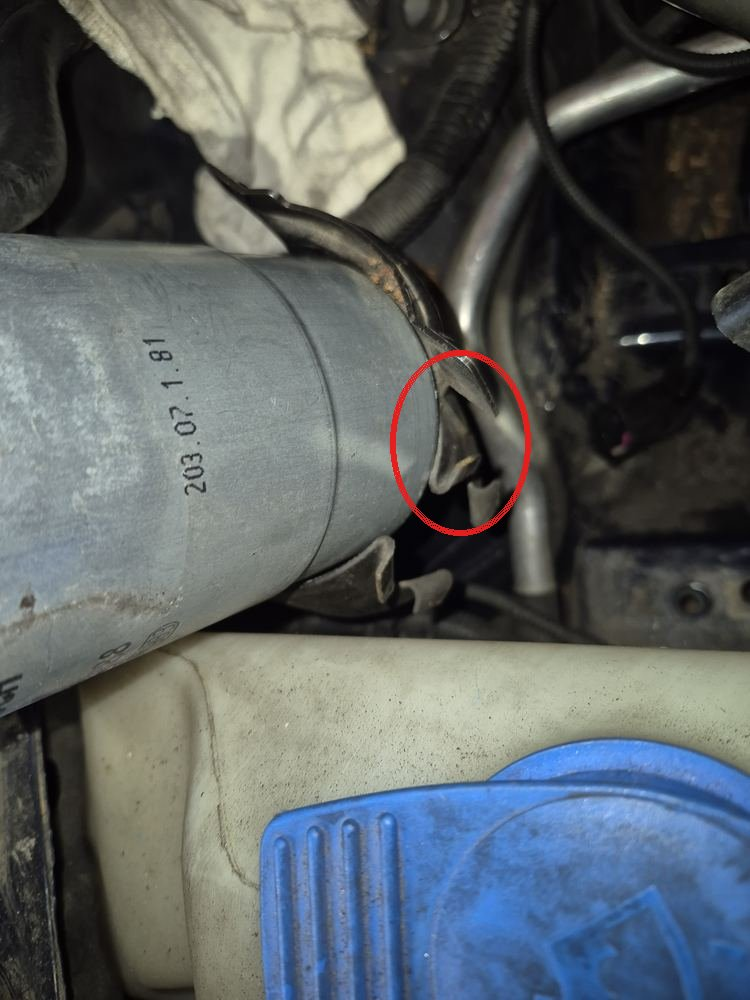
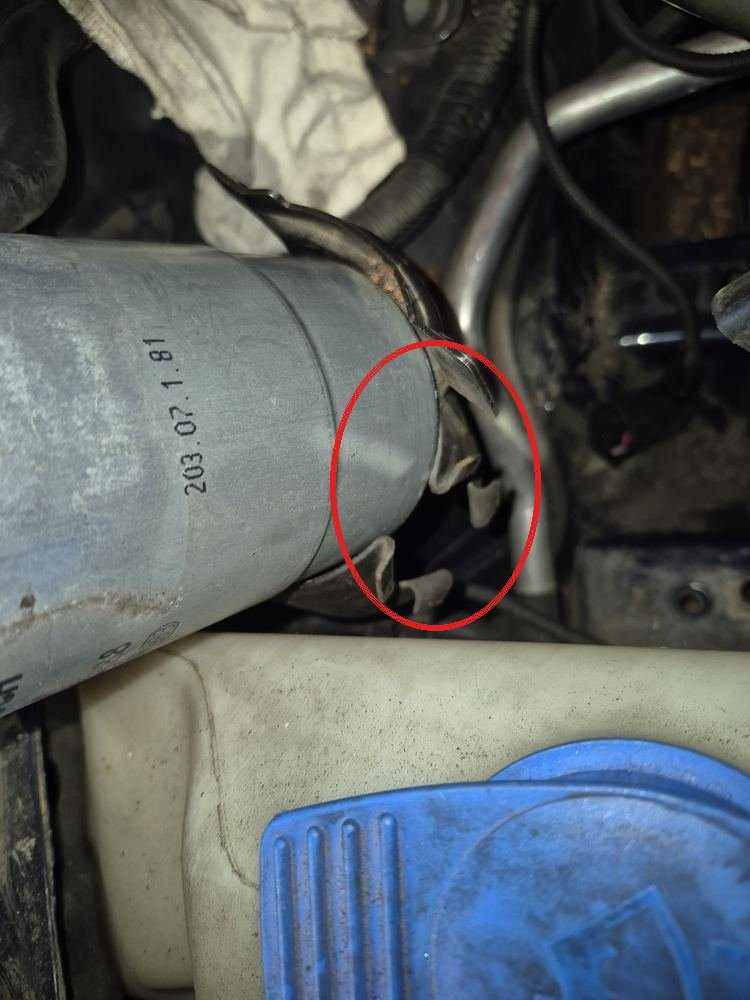
V47: Foto Filterschelle, Kreis um beide Hakenpaare

diff --git a/index.html b/index.html
@@ -1580,7 +1580,7 @@ td.val{font-family:var(--font-mono);font-weight:600;white-space:nowrap;font-vari
       <div class="ov" data-sym="top" data-on="tank,servo,filter,fuel,pipe" data-seq="tank,servo,filter,fuel,pipe" data-seqnote="Grüne Kästchen: Reihenfolge beim Einbau" data-cap="&lt;b&gt;Bild 26a.&lt;/b&gt; Motorraum von oben. Blau: was von oben wieder an seinen Platz kommt."></div>
       <div class="txt">
         <h4>26.1 Behälter, Leitungen und Ladeluftrohr</h4>
-        <ol class="sub"><li><label class="sb"><input type="checkbox" id="u26-1a"><b>26.1a</b></label><div class="sc">Den Kühlmittel-Ausgleichsbehälter an seinen Platz setzen und anschrauben.<div class="chips"><button type="button" class="chip pic" data-bild="26a">Bild 26a</button><span class="chip bag out">aus Beutel 4</span></div><div class="phs"><figure class="photo"><img src="foto-vorher-behaelter.jpg" alt="Dein Foto vom 13.11. So saßen Ausgleichsbehälter, Kraftstofffilter und Servoöl-Behälter vorher." loading="lazy"><figcaption><b>Dein Foto vom 13.11.</b> So saßen Ausgleichsbehälter, Kraftstofffilter und Servoöl-Behälter vorher.</figcaption></figure></div></div></li><li><label class="sb"><input type="checkbox" id="u26-1b"><b>26.1b</b></label><div class="sc">Den Stecker an der Unterseite des Ausgleichsbehälters aufstecken, bis er einrastet.<div class="chips"><button type="button" class="chip pic" data-bild="26a">Bild 26a</button></div><div class="phs"><figure class="photo"><img src="foto-stecker-ausgleichsbehaelter.jpg" alt="Dein Foto vom 15.11. Der Stecker an der Unterseite des Ausgleichsbehälters." loading="lazy"><figcaption><b>Dein Foto vom 15.11.</b> Der Stecker an der Unterseite des Ausgleichsbehälters.</figcaption></figure></div></div></li><li><label class="sb"><input type="checkbox" id="u26-1c"><b>26.1c</b></label><div class="sc">Den Servoöl-Behälter anschrauben.<div class="chips"><button type="button" class="chip pic" data-bild="26a">Bild 26a</button><span class="chip bag out">aus Beutel 4</span></div></div></li><li><label class="sb"><input type="checkbox" id="u26-1d"><b>26.1d</b></label><div class="sc">Den Kraftstofffilter anschrauben.<div class="chips"><button type="button" class="chip pic" data-bild="26a">Bild 26a</button><span class="chip bag out">aus Beutel 4</span></div></div></li><li><label class="sb"><input type="checkbox" id="u26-1da"><b>26.1da</b></label><div class="sc"><b>Spannschraube der Filterschelle einsetzen.</b> Am 22.11. ist die Spannschraube aus der Blechschelle des Kraftstofffilters herausgefallen. Sie hat zwei schwarze Querstücke. Häng das Querstück am Schraubenkopf in das eine aufgebogene Ende der Schelle und das Querstück mit dem Gewinde in das andere. Dann die Schraube anziehen, bis der Filter fest sitzt und sich von Hand nicht mehr drehen lässt. Nur handfest, die Schelle ist dünnes Blech.<div class="chips"><span class="chip bag out">aus Beutel 4</span></div><div class="phs"><figure class="photo"><img src="foto-filterschelle-schraube.jpg" alt="Dein Foto vom 22.11. Die Spannschraube der Filterschelle mit ihren zwei Querstücken." loading="lazy"><figcaption><b>Dein Foto vom 22.11.</b> Die Spannschraube der Filterschelle mit ihren zwei Querstücken.</figcaption></figure><figure class="photo"><img src="foto-filterschelle-offen.jpg" alt="Dein Foto vom 22.11. Hier gehört sie hin: in die zwei offenen Enden der Schelle am Kraftstofffilter (roter Kreis)." loading="lazy"><figcaption><b>Dein Foto vom 22.11.</b> Hier gehört sie hin: in die zwei offenen Enden der Schelle am Kraftstofffilter (roter Kreis).</figcaption></figure></div></div></li><li><label class="sb"><input type="checkbox" id="u26-1e"><b>26.1e</b></label><div class="sc">Die Kraftstoffleitung wieder in ihre Halterung am Zylinderkopfdeckel legen.<div class="chips"><button type="button" class="chip pic" data-bild="26a">Bild 26a</button></div></div></li><li><label class="sb"><input type="checkbox" id="u26-1f"><b>26.1f</b></label><div class="sc">Die Lappen aus den Stutzen des Ladeluftrohrs nehmen.<div class="chips"><button type="button" class="chip pic" data-bild="6">Bild 6</button></div></div></li><li><label class="sb"><input type="checkbox" id="u26-1g"><b>26.1g</b></label><div class="sc"><b>Ladeluftrohr oben</b> aufstecken. Die blauen Striche auf Schlauch und Rohr wieder aufeinander ausrichten. Hörbar einrasten lassen oder die Schelle festziehen.<div class="chips"><button type="button" class="chip pic" data-bild="6">Bild 6</button><span class="chip bag out">aus Beutel 6</span></div><div class="phs"><figure class="photo"><img src="foto-ladeluft-oben.jpg" alt="Dein Foto vom 13.11. Das obere Ende mit den blauen Strichen." loading="lazy"><figcaption><b>Dein Foto vom 13.11.</b> Das obere Ende mit den blauen Strichen.</figcaption></figure><figure class="photo"><img src="foto-ladeluft-oben-offen.jpg" alt="Dein Foto vom 13.11. Der obere Anschluss, abgezogen." loading="lazy"><figcaption><b>Dein Foto vom 13.11.</b> Der obere Anschluss, abgezogen.</figcaption></figure></div></div></li><li><label class="sb"><input type="checkbox" id="u26-1h"><b>26.1h</b></label><div class="sc"><b>Ladeluftrohr unten</b> aufstecken. Hörbar einrasten lassen oder die Schelle festziehen.<div class="chips"><button type="button" class="chip pic" data-bild="6">Bild 6</button><span class="chip bag out">aus Beutel 6</span></div><div class="phs"><figure class="photo"><img src="foto-ladeluft-unten.jpg" alt="Dein Foto vom 15.11. Das untere Ende, von unten gesehen." loading="lazy"><figcaption><b>Dein Foto vom 15.11.</b> Das untere Ende, von unten gesehen.</figcaption></figure><figure class="photo"><img src="foto-ladeluft-unten-2.jpg" alt="Dein Foto vom 15.11. Das untere Ende von der Seite." loading="lazy"><figcaption><b>Dein Foto vom 15.11.</b> Das untere Ende von der Seite.</figcaption></figure></div></div></li><li><label class="sb"><input type="checkbox" id="u26-1i"><b>26.1i</b></label><div class="sc">Zug-Probe: An beiden Enden kräftig ziehen. Nichts darf abgehen.</div></li></ol>
+        <ol class="sub"><li><label class="sb"><input type="checkbox" id="u26-1a"><b>26.1a</b></label><div class="sc">Den Kühlmittel-Ausgleichsbehälter an seinen Platz setzen und anschrauben.<div class="chips"><button type="button" class="chip pic" data-bild="26a">Bild 26a</button><span class="chip bag out">aus Beutel 4</span></div><div class="phs"><figure class="photo"><img src="foto-vorher-behaelter.jpg" alt="Dein Foto vom 13.11. So saßen Ausgleichsbehälter, Kraftstofffilter und Servoöl-Behälter vorher." loading="lazy"><figcaption><b>Dein Foto vom 13.11.</b> So saßen Ausgleichsbehälter, Kraftstofffilter und Servoöl-Behälter vorher.</figcaption></figure></div></div></li><li><label class="sb"><input type="checkbox" id="u26-1b"><b>26.1b</b></label><div class="sc">Den Stecker an der Unterseite des Ausgleichsbehälters aufstecken, bis er einrastet.<div class="chips"><button type="button" class="chip pic" data-bild="26a">Bild 26a</button></div><div class="phs"><figure class="photo"><img src="foto-stecker-ausgleichsbehaelter.jpg" alt="Dein Foto vom 15.11. Der Stecker an der Unterseite des Ausgleichsbehälters." loading="lazy"><figcaption><b>Dein Foto vom 15.11.</b> Der Stecker an der Unterseite des Ausgleichsbehälters.</figcaption></figure></div></div></li><li><label class="sb"><input type="checkbox" id="u26-1c"><b>26.1c</b></label><div class="sc">Den Servoöl-Behälter anschrauben.<div class="chips"><button type="button" class="chip pic" data-bild="26a">Bild 26a</button><span class="chip bag out">aus Beutel 4</span></div></div></li><li><label class="sb"><input type="checkbox" id="u26-1d"><b>26.1d</b></label><div class="sc">Den Kraftstofffilter anschrauben.<div class="chips"><button type="button" class="chip pic" data-bild="26a">Bild 26a</button><span class="chip bag out">aus Beutel 4</span></div></div></li><li><label class="sb"><input type="checkbox" id="u26-1da"><b>26.1da</b></label><div class="sc"><b>Spannschraube der Filterschelle einsetzen.</b> Am 22.11. ist die Spannschraube aus der Blechschelle des Kraftstofffilters herausgefallen. Sie hat zwei schwarze Querstücke. Die Schelle hat zwei Enden mit je zwei Haken. Häng das Querstück am Schraubenkopf in das eine Hakenpaar und das Querstück mit dem Gewinde in das andere. Dann die Schraube anziehen, bis der Filter fest sitzt und sich von Hand nicht mehr drehen lässt. Nur handfest, die Schelle ist dünnes Blech.<div class="chips"><span class="chip bag out">aus Beutel 4</span></div><div class="phs"><figure class="photo"><img src="foto-filterschelle-schraube.jpg" alt="Dein Foto vom 22.11. Die Spannschraube der Filterschelle mit ihren zwei Querstücken." loading="lazy"><figcaption><b>Dein Foto vom 22.11.</b> Die Spannschraube der Filterschelle mit ihren zwei Querstücken.</figcaption></figure><figure class="photo"><img src="foto-filterschelle-offen.jpg" alt="Dein Foto vom 22.11. Hier gehört sie hin: zwischen die zwei Hakenpaare an den Enden der Schelle (roter Kreis)." loading="lazy"><figcaption><b>Dein Foto vom 22.11.</b> Hier gehört sie hin: zwischen die zwei Hakenpaare an den Enden der Schelle (roter Kreis).</figcaption></figure></div></div></li><li><label class="sb"><input type="checkbox" id="u26-1e"><b>26.1e</b></label><div class="sc">Die Kraftstoffleitung wieder in ihre Halterung am Zylinderkopfdeckel legen.<div class="chips"><button type="button" class="chip pic" data-bild="26a">Bild 26a</button></div></div></li><li><label class="sb"><input type="checkbox" id="u26-1f"><b>26.1f</b></label><div class="sc">Die Lappen aus den Stutzen des Ladeluftrohrs nehmen.<div class="chips"><button type="button" class="chip pic" data-bild="6">Bild 6</button></div></div></li><li><label class="sb"><input type="checkbox" id="u26-1g"><b>26.1g</b></label><div class="sc"><b>Ladeluftrohr oben</b> aufstecken. Die blauen Striche auf Schlauch und Rohr wieder aufeinander ausrichten. Hörbar einrasten lassen oder die Schelle festziehen.<div class="chips"><button type="button" class="chip pic" data-bild="6">Bild 6</button><span class="chip bag out">aus Beutel 6</span></div><div class="phs"><figure class="photo"><img src="foto-ladeluft-oben.jpg" alt="Dein Foto vom 13.11. Das obere Ende mit den blauen Strichen." loading="lazy"><figcaption><b>Dein Foto vom 13.11.</b> Das obere Ende mit den blauen Strichen.</figcaption></figure><figure class="photo"><img src="foto-ladeluft-oben-offen.jpg" alt="Dein Foto vom 13.11. Der obere Anschluss, abgezogen." loading="lazy"><figcaption><b>Dein Foto vom 13.11.</b> Der obere Anschluss, abgezogen.</figcaption></figure></div></div></li><li><label class="sb"><input type="checkbox" id="u26-1h"><b>26.1h</b></label><div class="sc"><b>Ladeluftrohr unten</b> aufstecken. Hörbar einrasten lassen oder die Schelle festziehen.<div class="chips"><button type="button" class="chip pic" data-bild="6">Bild 6</button><span class="chip bag out">aus Beutel 6</span></div><div class="phs"><figure class="photo"><img src="foto-ladeluft-unten.jpg" alt="Dein Foto vom 15.11. Das untere Ende, von unten gesehen." loading="lazy"><figcaption><b>Dein Foto vom 15.11.</b> Das untere Ende, von unten gesehen.</figcaption></figure><figure class="photo"><img src="foto-ladeluft-unten-2.jpg" alt="Dein Foto vom 15.11. Das untere Ende von der Seite." loading="lazy"><figcaption><b>Dein Foto vom 15.11.</b> Das untere Ende von der Seite.</figcaption></figure></div></div></li><li><label class="sb"><input type="checkbox" id="u26-1i"><b>26.1i</b></label><div class="sc">Zug-Probe: An beiden Enden kräftig ziehen. Nichts darf abgehen.</div></li></ol>
       </div>
     </div>
     <div class="pair">
